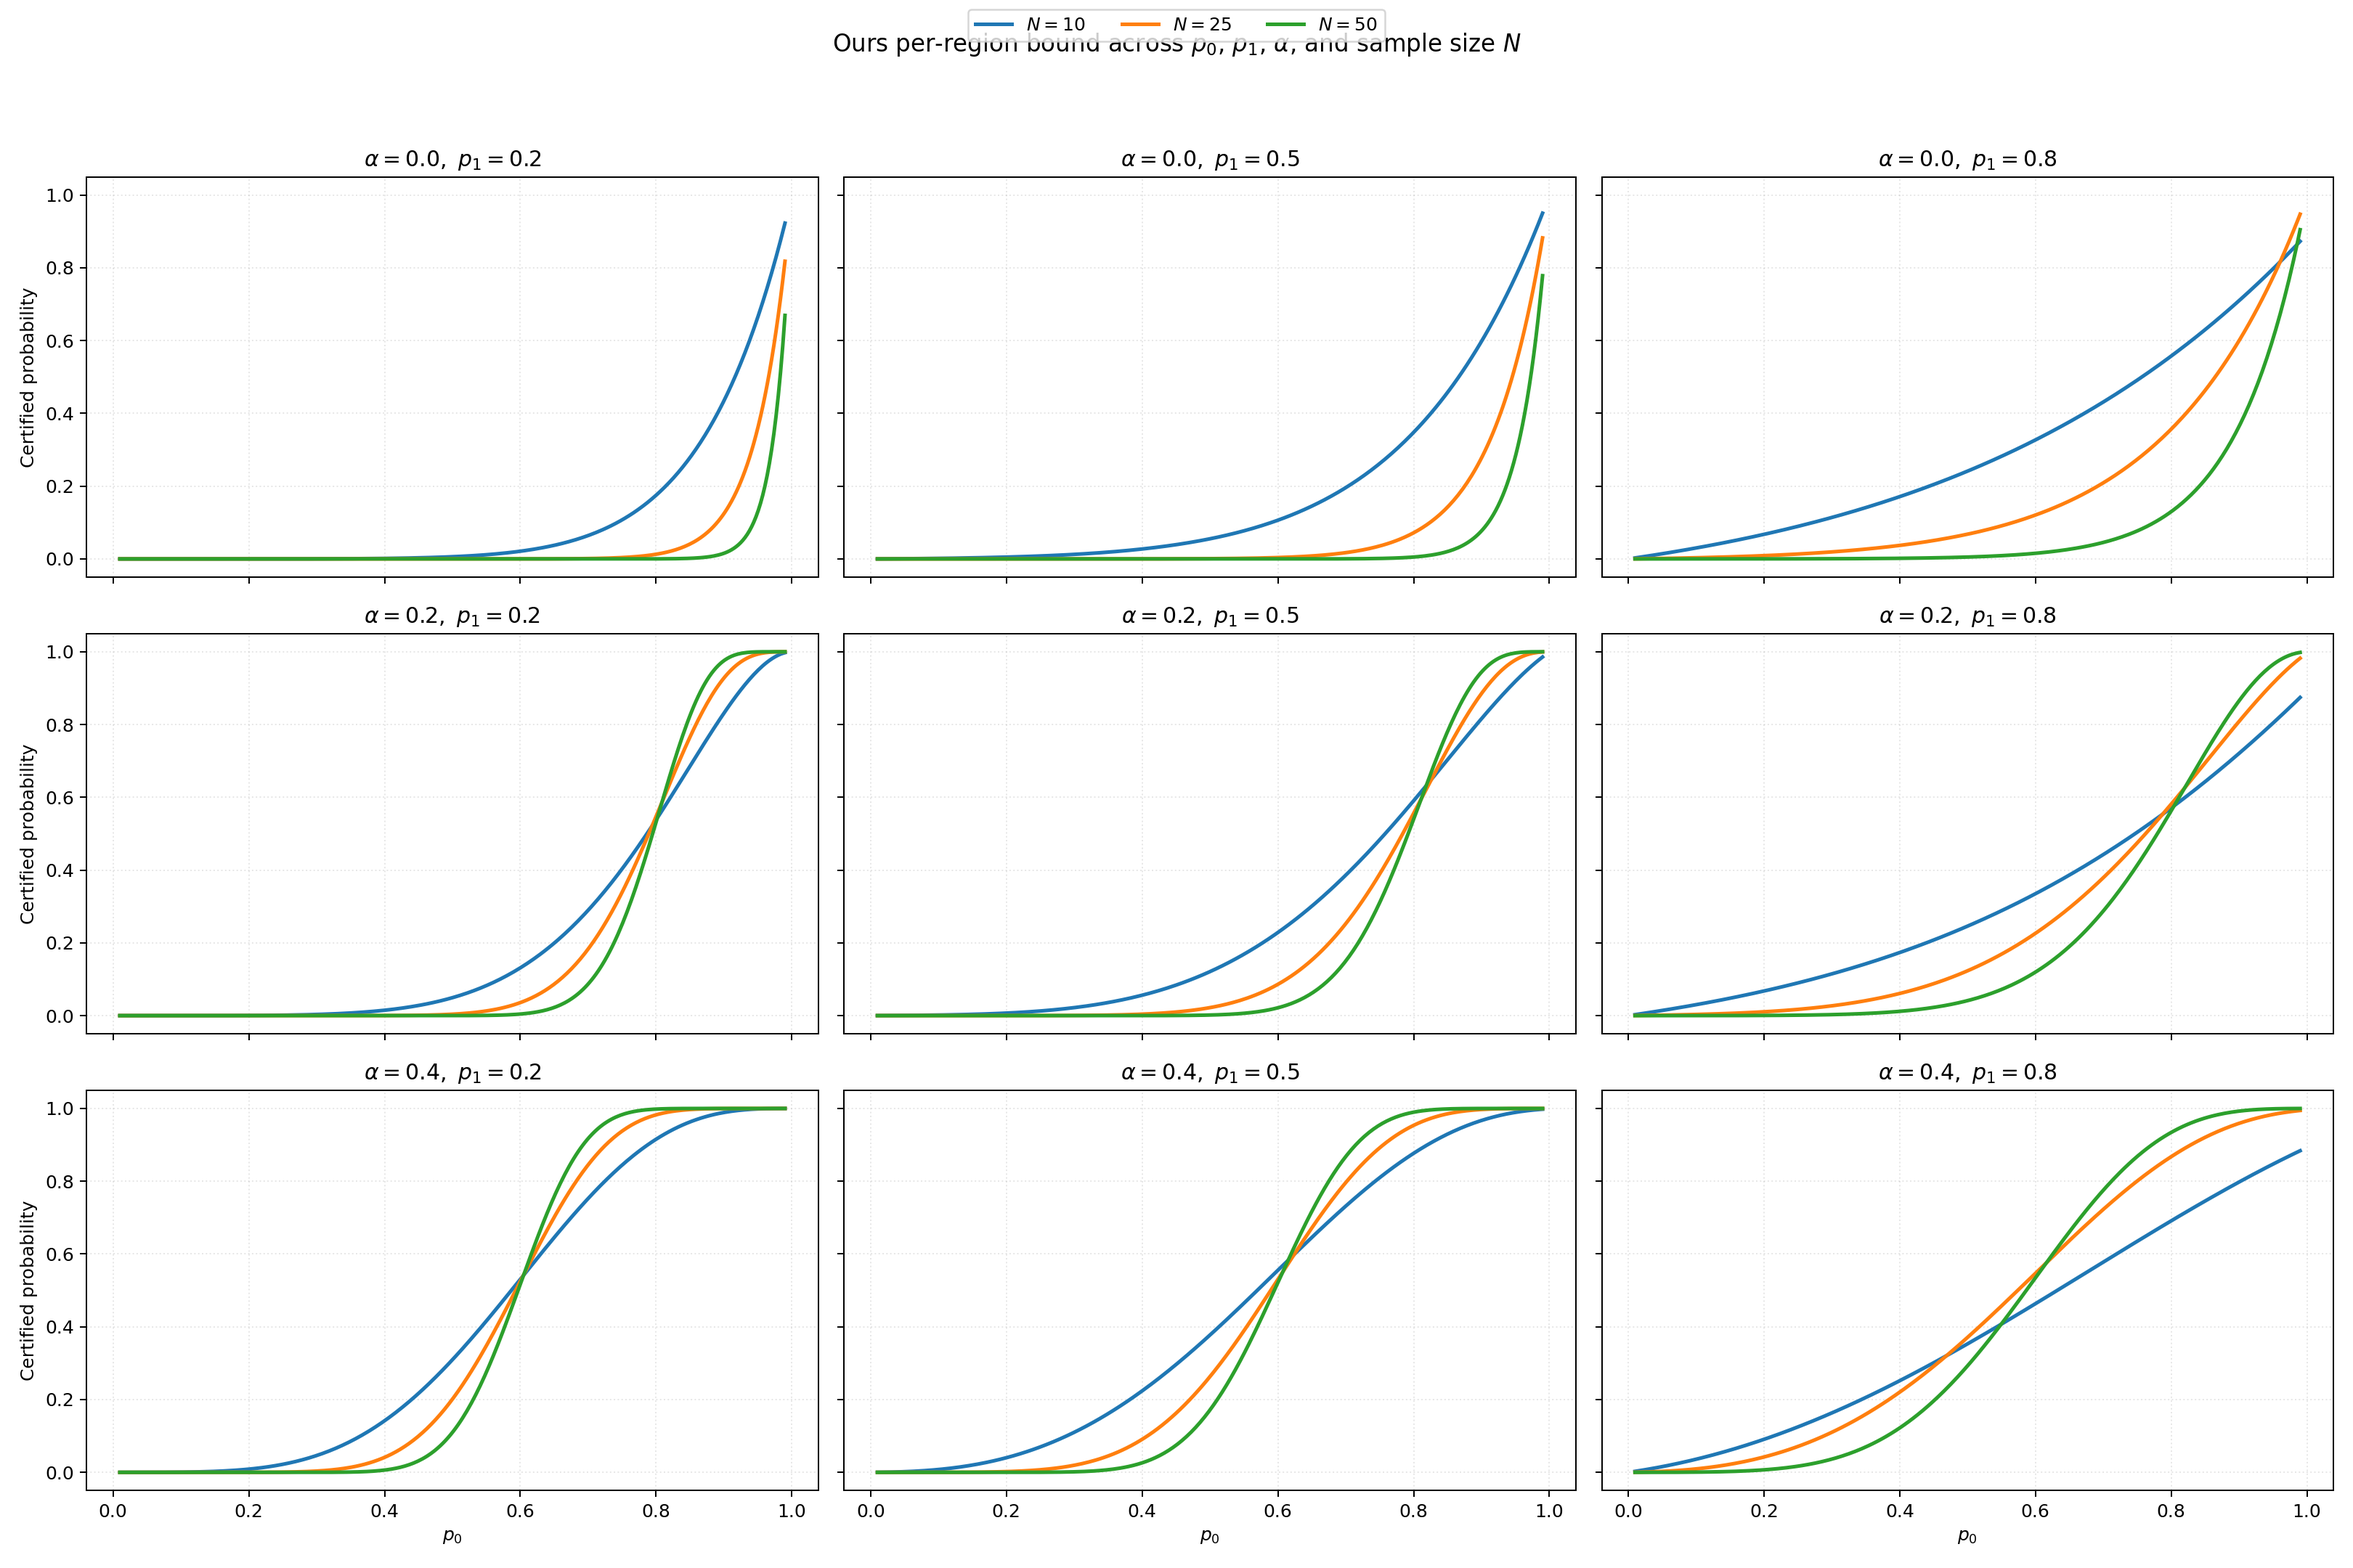
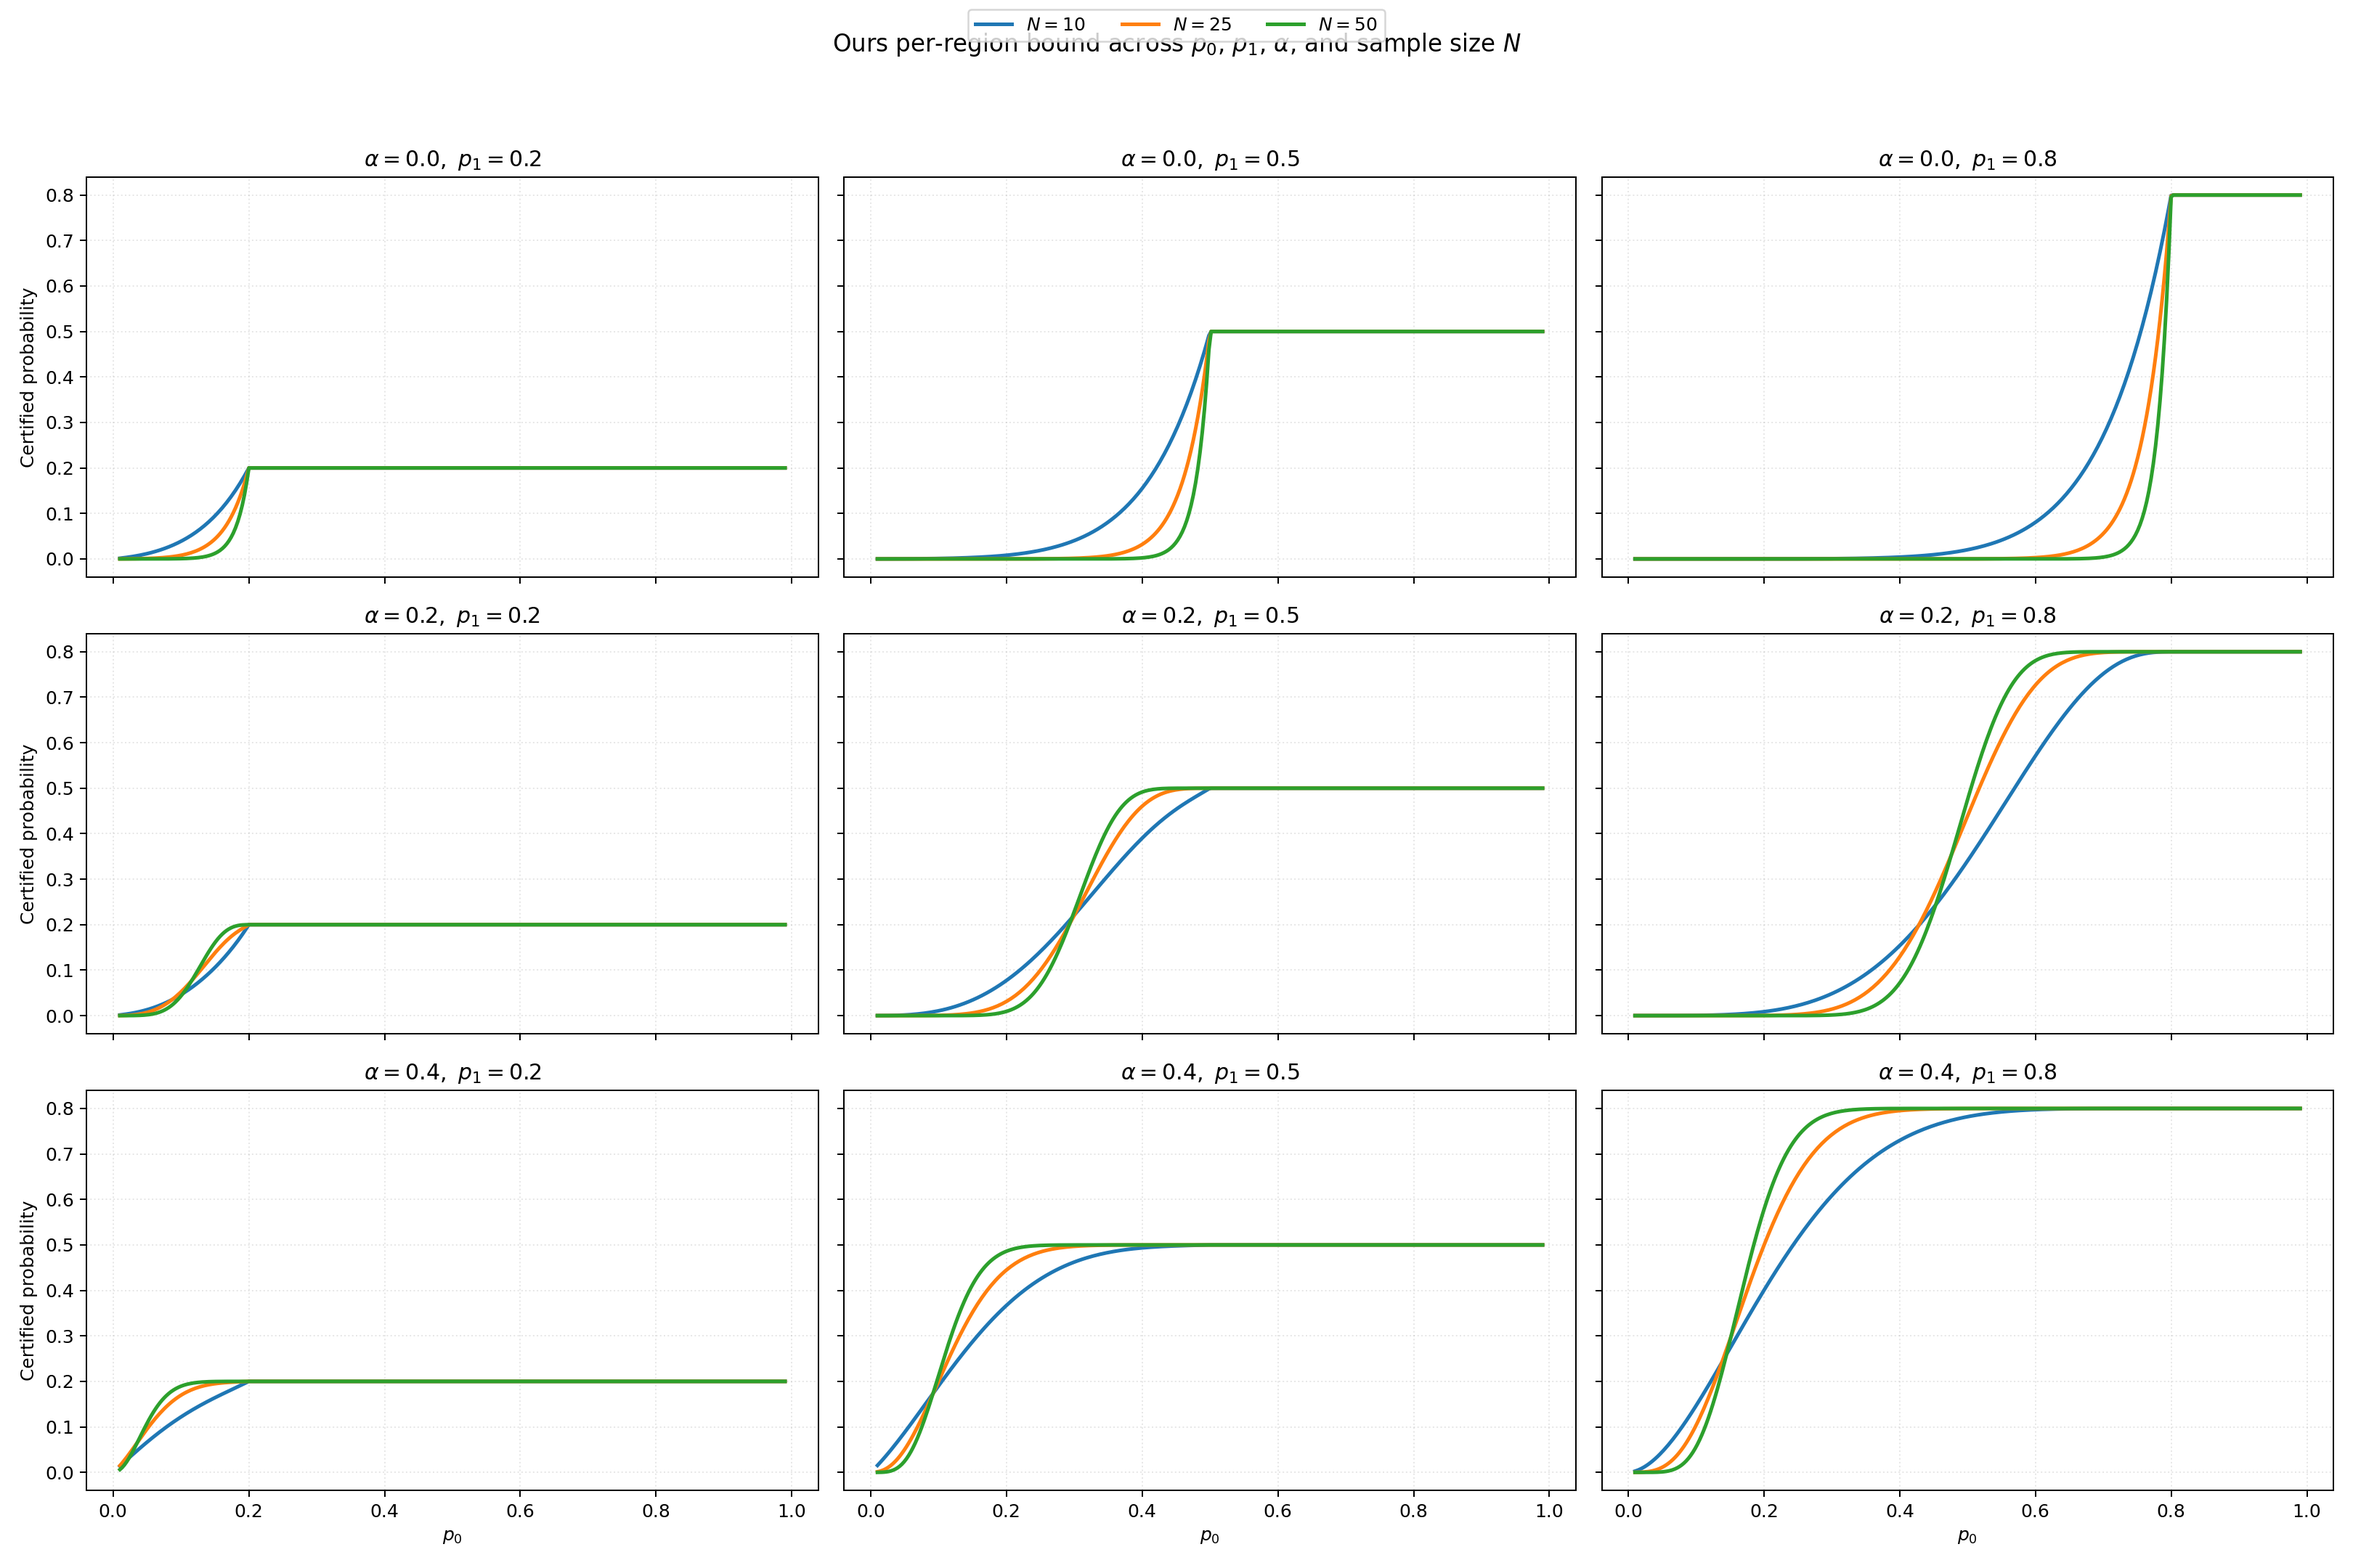
patch bound comparison

diff --git a/experiments/bound_comparison.py b/experiments/bound_comparison.py
@@ -12,14 +12,22 @@ SRC = ROOT.parent / "src"
 if str(SRC) not in sys.path:
     sys.path.insert(0, str(SRC))
 
-from randomized_smoothing.utils import _bound_ours_per_region, _bound_rekavandi_et_al_2024
+from randomized_smoothing.utils import robustness_bound
 
 
 def compute_curve(p_values: torch.Tensor, num_samples: int, alpha: float) -> torch.Tensor:
-    values = [
-        float(_bound_rekavandi_et_al_2024(p=pi, num_samples=num_samples, alpha=alpha).item())
-        for pi in p_values
-    ]
+    # Rekavandi setting: single cluster with p_partition = 1.
+    values = []
+    for pi in p_values:
+        probs_region = torch.tensor([[float(pi.item())]], dtype=torch.float64)
+        probs_partition = torch.ones((1, 1), dtype=torch.float64)
+        bound = robustness_bound(
+            probs_region=probs_region,
+            probs_partition=probs_partition,
+            num_samples=num_samples,
+            alpha=alpha,
+        )
+        values.append(float(bound.squeeze().item()))
     return torch.tensor(values, dtype=torch.float64)
 
 
@@ -31,9 +39,14 @@ def compute_curve_ours_per_region(
 ) -> torch.Tensor:
     values = []
     for p0 in p0_values:
-        # Build p as a (2, 1) tensor and flatten for the utility function API.
-        p_pair = torch.tensor([[float(p0.item())], [p1]], dtype=torch.float64)
-        bound = _bound_ours_per_region(p=p_pair.reshape(-1), num_samples=num_samples, alpha=alpha)
+        probs_region = torch.tensor([[float(p0.item())]], dtype=torch.float64)
+        probs_partition = torch.tensor([[p1]], dtype=torch.float64)
+        bound = robustness_bound(
+            probs_region=probs_region,
+            probs_partition=probs_partition,
+            num_samples=num_samples,
+            alpha=alpha,
+        )
         values.append(float(bound.squeeze().item()))
     return torch.tensor(values, dtype=torch.float64)
 
